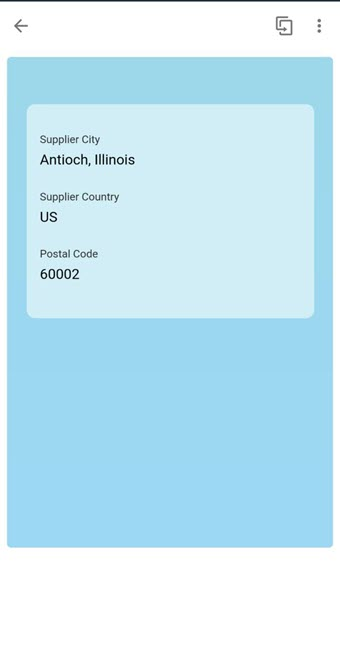
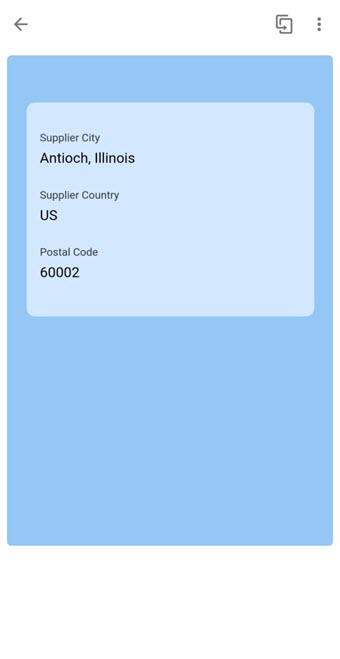
Updating Contact card template

diff --git a/Contact Card Template - Single Instance/template.css b/Contact Card Template - Single Instance/template.css
@@ -1,8 +1,8 @@
 .myTemplate {
     height: 100vh;
-    background: linear-gradient(to bottom,rgb(153, 217, 234),rgb(153, 217, 245));
-    color: #303030;
-    font-family: Helvetica;
+    background-color: #91C8F6;
+    color: #32363A;
+    font-family: -apple-system, Helvetica;
 }
 
 .header {
@@ -12,16 +12,19 @@
 }
 
 .name{
-    font-size: 12px;
+    width: 30vw;
+    float: right;
+    font-size: 11px;
     font-weight: normal;
     display: block;
-    margin-top: -25px;
+    margin-top: -47px;
     text-align: right;
+    word-wrap: break-word;
     white-space: normal;
 }
 
 .card-content{
-    background-color: rgb(207, 238, 245);
+    background-color: #D1E8FF;
     padding: 16px;
     width:80%;
     margin-left: 6%;
@@ -29,7 +32,7 @@
 }
 
 .backCard-content{
-    background-color: rgb(207, 238, 245);
+    background-color: #D1E8FF;
     padding: 16px;
     width:80%;
     margin-left: 6%;

diff --git a/Contact Card Template - Single Instance/template_en.html b/Contact Card Template - Single Instance/template_en.html
@@ -3,9 +3,10 @@
     <div id="mySimpleTemplate" class="myTemplate" data-type="text/x-handlebars-template">
         <br>
         <div class="header">
-            <span style="font-weight: bold; font-size: xx-large;">
-                {{iconLoad "contactSupplier"}} {{d.results.[0].SupplierDetails.SupplierName}}
-            </span>
+            {{iconLoad "contactSupplier"}} 
+            <h1 style="font-weight: bold; font-size: xx-large; margin-top:-39px; margin-left: 49px;">
+                {{d.results.[0].SupplierDetails.SupplierName}}
+            </h1>
             <span class="name">
                 {{d.results.0.SupplierDetails.SupplierId}}
             </span>

diff --git a/Contact Card Template - Single Instance/README.md b/Contact Card Template - Single Instance/README.md
@@ -5,14 +5,41 @@
 Contact Card gives you the contact details of the suppliers.
 You can call the supplier, text the supplier, email them, open maps. You can see the category of products they supply.
 
+## URL
+
+The card in Prototype Mode renders the data from the userdata.json file on your physical mobile device.
+You can change the lifecycle status of your card to Prototype Mode to visualize the data from userdata.json file.
+
+### Deploying The Card As A Prototype From Business Application Studio
+
+![Leave Request Card Business Application Studio Screenshot](screens/deploy-prototype-BAS.png)
+
+### Making The Card A Prototype Card on Mobile Services Cockpit 
+
+![Leave Request Card Mobile Services Cockpit Screenshot](screens/deploy-prototype-mobile-services-cockpit.png)
+
 ## Screenshot
 
 ### Android
 
 #### Front
 
-![Leave Request Card Android Front Screenshot](screens/android_front.png)
+![Contact Card Android Front Screenshot](screens/android_front.png)
 
 #### Back
 
-![Leave Request Card Android Back Screenshot](screens/android_back.png)
+![Contact Card Android Back Screenshot](screens/android_back.png)
+
+![Contact Card Android Screenshot](screens/android_action.png) ![Contact Card Android Screenshot](screens/android_action1.png)
+
+### iOS
+
+#### Front
+
+![Contact Card iOS Front Screenshot](screens/ios_front.png)
+
+#### Back
+
+![Contact Card iOS Back Screenshot](screens/ios_back.png)
+
+![Contact Card iOS Back Screenshot](screens/ios_action.png)
